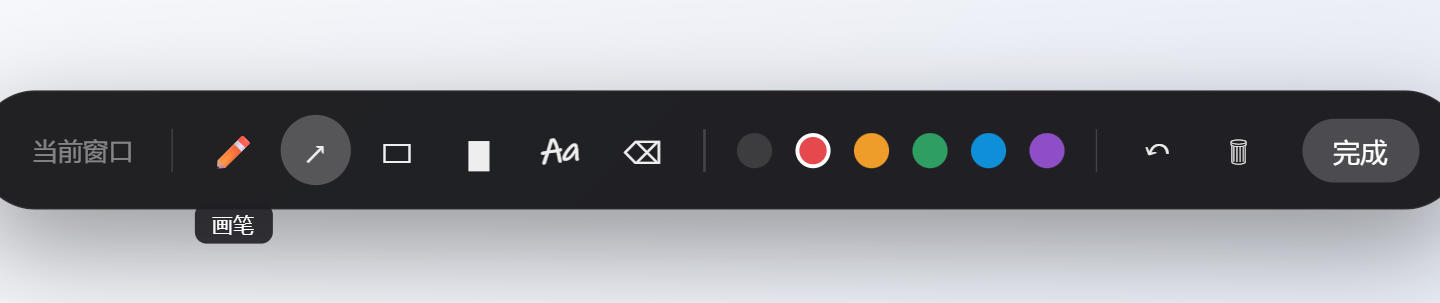
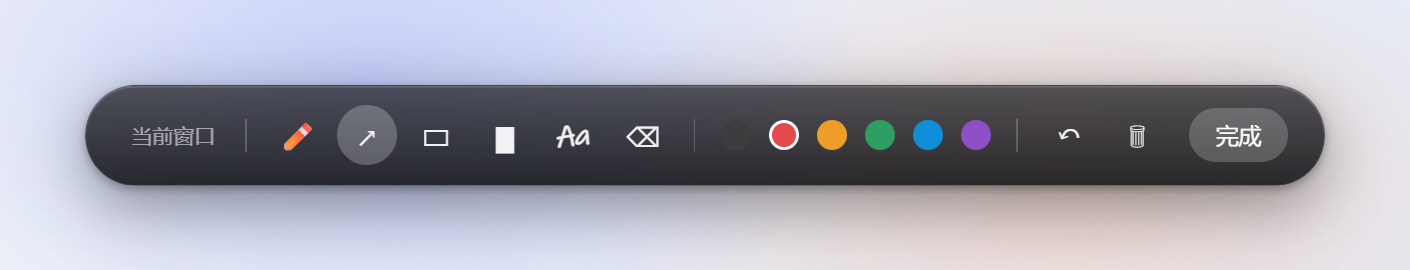
feat: 托盘菜单跟随系统主题 + 更小更紧凑;工具条胶囊弹出动画 + 玻璃质感;截图重做
- 托盘菜单:不再强制深色,改浅色默认 + 跟随系统深浅(prefers-color-scheme);整体更小、
  左侧对勾列收窄到 11px;磨砂玻璃(backdrop-filter)+ 顶部高光,质感更实。
- 工具条:进入标注时从小胶囊"弹开"成整条(Typeless 式登场——一直居中,max-width 逐帧变宽
  看起来就是从中间向两边展开);底改磨砂玻璃 + 顶部高光 + 分层阴影。
- README 截图重做:去掉托盘那张(又糊、构图又怪,且本就非必需);工具条改"缩窗贴合"导出,
  保证完整、居中、留白匀称;修好 hero 便签在特定渲染下被压成竖排的问题
  (gen-screenshots 去掉 force-device-scale-factor —— 它会压坏便签排版)。
- README(中 / 英)工具数量更正为六件(补"方框"),删掉托盘截图段。

diff --git a/docs/gen-screenshots.js b/docs/gen-screenshots.js
@@ -27,12 +27,20 @@ else if(it.type==='rect'){p.setAttribute('d',rectPath(it));p.setAttribute('strok
 
 const NOTE_CSS = `
 .note{position:absolute;font-family:'Ink Free','Segoe Print',cursive;font-size:20px;line-height:1.3;font-weight:600;white-space:pre-wrap;
+width:max-content;max-width:320px;
 text-shadow:0 1px 0 rgba(255,255,255,.6),0 -1px 0 rgba(255,255,255,.6),1px 0 0 rgba(255,255,255,.6),-1px 0 0 rgba(255,255,255,.6);}
 #canvas{position:absolute;inset:0;width:100%;height:100%;pointer-events:none}
 #notes{position:absolute;inset:0}
 `;
 
-// 模拟"浏览器窗口 + 一篇文章",再叠标注——展示"任意窗口都能标"。工具条=当前真实的六个工具(含方框 ▭)
+// 深色玻璃工具条(磨砂 + 顶部高光 + 分层阴影),和 overlay.css 里真实工具条同款质感
+const GLASS_BAR = `
+  background:linear-gradient(180deg,rgba(44,44,49,.80),rgba(20,20,23,.90));
+  -webkit-backdrop-filter:blur(18px) saturate(1.4);backdrop-filter:blur(18px) saturate(1.4);
+  border:1px solid rgba(255,255,255,.14);
+  box-shadow:0 14px 44px rgba(0,0,0,.4),0 2px 6px rgba(0,0,0,.28),inset 0 1px 0 rgba(255,255,255,.16);`;
+
+// 模拟"浏览器窗口 + 一篇文章",再叠标注——展示"任意窗口都能标"。工具条=当前真实六个工具(含方框 ▭)
 function heroHTML(withToolbar) {
   const toolbar = withToolbar ? `
   <div class="wa-toolbar">
@@ -59,11 +67,10 @@ function heroHTML(withToolbar) {
   ${NOTE_CSS}
   /* 工具条 */
   .wa-toolbar{position:absolute;top:16px;left:50%;transform:translateX(-50%);display:flex;align-items:center;gap:4px;
-    background:rgba(24,24,27,.94);border:1px solid rgba(255,255,255,.08);border-radius:999px;padding:6px 12px;
-    box-shadow:0 10px 30px rgba(0,0,0,.4);z-index:9}
-  .wa-toolbar .app{color:rgba(255,255,255,.45);font-size:12px;padding:0 4px}
-  .wa-toolbar .sep{width:1px;height:18px;background:rgba(255,255,255,.16);margin:0 5px}
-  .wa-toolbar button{border:none;background:transparent;color:#eee;width:32px;height:32px;border-radius:50%;font-size:15px;cursor:pointer}
+    border-radius:999px;padding:6px 12px;z-index:9;${GLASS_BAR}}
+  .wa-toolbar .app{color:rgba(255,255,255,.5);font-size:12px;padding:0 4px}
+  .wa-toolbar .sep{width:1px;height:18px;background:rgba(255,255,255,.18);margin:0 5px}
+  .wa-toolbar button{border:none;background:transparent;color:#f0f0f2;width:32px;height:32px;border-radius:50%;font-size:15px;cursor:pointer}
   .wa-toolbar button.on{background:rgba(255,255,255,.22)}
   .wa-toolbar button.ink{font-family:'Ink Free','Segoe Print',cursive;font-weight:700}
   .wa-toolbar i{width:16px;height:16px;border-radius:50%;display:inline-block;margin:0 2px;border:2px solid transparent}
@@ -104,27 +111,28 @@ function heroHTML(withToolbar) {
   </body></html>`;
 }
 
-// 工具条特写(柔和背景 + 放大的工具条),六个工具:画笔 / 箭头 / 方框 / 荧光笔 / 手写便签 / 橡皮
+// 工具条特写:居中、不缩放(靠 shootFit 紧裁,保证完整+居中),六个工具:画笔/箭头/方框/荧光笔/便签/橡皮
 function toolbarHTML() {
   return `<!DOCTYPE html><html><head><meta charset="utf-8"><style>
   *{margin:0;padding:0;box-sizing:border-box;font-family:'Segoe UI','Microsoft YaHei',system-ui,sans-serif}
-  body{width:960px;height:200px;background:linear-gradient(135deg,#f6f7fb,#e9edf5);display:flex;align-items:center;justify-content:center;overflow:hidden}
-  .bar{display:flex;align-items:center;gap:6px;background:rgba(24,24,27,.96);border:1px solid rgba(255,255,255,.08);
-    border-radius:999px;padding:12px 22px;box-shadow:0 18px 50px rgba(0,0,0,.4);transform:scale(1.3)}
-  .bar .app{color:rgba(255,255,255,.45);font-size:13px;padding:0 6px}
-  .bar .sep{width:1px;height:22px;background:rgba(255,255,255,.16);margin:0 7px}
-  .bar button{border:none;background:transparent;color:#eee;width:36px;height:36px;border-radius:50%;font-size:17px;cursor:pointer;position:relative}
-  .bar button.on{background:rgba(255,255,255,.24)}
-  .bar button.ink{font-family:'Ink Free','Segoe Print',cursive;font-weight:700}
-  .bar i{width:18px;height:18px;border-radius:50%;display:inline-block;margin:0 3px;border:2px solid transparent}
-  .bar i.on{border-color:#fff}
-  .bar b{margin-left:8px;padding:7px 16px;background:rgba(255,255,255,.2);border-radius:999px;color:#fff;font-size:14px;font-weight:500}
-  .tip{position:absolute;bottom:-30px;left:50%;transform:translateX(-50%);white-space:nowrap;font-size:11px;color:#fff;
-    background:rgba(30,30,34,.9);padding:3px 9px;border-radius:6px}
+  body{width:100vw;height:100vh;overflow:hidden;display:flex;align-items:center;justify-content:center;
+    background:
+      radial-gradient(560px 300px at 26% 32%, rgba(120,140,255,.34), transparent 60%),
+      radial-gradient(520px 280px at 76% 70%, rgba(255,168,120,.30), transparent 62%),
+      linear-gradient(135deg,#eef1f8,#e5ebf6)}
+  #shot{display:flex;align-items:center;gap:6px;border-radius:999px;padding:13px 24px;${GLASS_BAR}}
+  #shot .app{color:rgba(255,255,255,.55);font-size:14px;padding:0 6px}
+  #shot .sep{width:1px;height:22px;background:rgba(255,255,255,.20);margin:0 8px}
+  #shot button{border:none;background:transparent;color:#f2f2f4;width:40px;height:40px;border-radius:50%;font-size:19px;cursor:pointer}
+  #shot button.on{background:rgba(255,255,255,.24)}
+  #shot button.ink{font-family:'Ink Free','Segoe Print',cursive;font-weight:700}
+  #shot i{width:20px;height:20px;border-radius:50%;display:inline-block;margin:0 3px;border:2px solid transparent}
+  #shot i.on{border-color:#fff}
+  #shot b{margin-left:8px;padding:8px 18px;background:rgba(255,255,255,.20);border-radius:999px;color:#fff;font-size:15px;font-weight:500}
   </style></head><body>
-    <div class="bar">
+    <div id="shot">
       <span class="app">当前窗口</span><span class="sep"></span>
-      <button title="画笔">✏<span class="tip">画笔</span></button>
+      <button title="画笔">✏</button>
       <button class="on" title="箭头">↗</button>
       <button title="方框">▭</button>
       <button title="荧光笔">▆</button>
@@ -138,51 +146,32 @@ function toolbarHTML() {
   </body></html>`;
 }
 
-// 托盘右键菜单 mock —— 现在是自绘的深色玻璃菜单(和工具条同语言),开机自启 / 跟随页面滚动 两个勾选项
-function trayHTML() {
-  return `<!DOCTYPE html><html><head><meta charset="utf-8"><style>
-  *{margin:0;padding:0;box-sizing:border-box;font-family:'Segoe UI','Microsoft YaHei',system-ui,sans-serif}
-  body{width:520px;height:400px;background:linear-gradient(135deg,#eef1f6,#dfe4ee);position:relative}
-  .taskbar{position:absolute;bottom:0;left:0;right:0;height:48px;background:rgba(243,244,246,.96);border-top:1px solid #e2e5ea;display:flex;align-items:center;justify-content:flex-end;padding-right:18px;gap:16px;color:#4b5563;font-size:13px}
-  .trayicon{width:26px;height:26px;border-radius:50%;background:#e5484d;color:#fff;display:flex;align-items:center;justify-content:center;font-size:14px;box-shadow:0 0 0 3px rgba(229,72,77,.18)}
-  .menu{position:absolute;right:22px;bottom:60px;display:flex;flex-direction:column;min-width:210px;
-    background:rgba(30,30,33,.97);border:1px solid rgba(255,255,255,.09);border-radius:11px;padding:6px;
-    box-shadow:0 14px 44px rgba(0,0,0,.5),0 2px 8px rgba(0,0,0,.3);color:rgba(255,255,255,.92);font-size:13px}
-  .row{display:flex;align-items:center;gap:8px;height:32px;padding:0 14px 0 8px;border-radius:7px;white-space:nowrap}
-  .row .ck{flex:0 0 15px;width:15px;text-align:center;color:#6bd39a;font-size:12px;opacity:0}
-  .row.on .ck{opacity:1}
-  .row .tx{flex:1}
-  .row .sc{margin-left:20px;color:rgba(255,255,255,.4);font-size:11.5px}
-  .row.info{height:27px;color:rgba(255,255,255,.45)}
-  .row.info .tx{font-size:12px}
-  .row.hover{background:rgba(255,255,255,.11)}
-  .sep{height:1px;background:rgba(255,255,255,.09);margin:5px 8px}
-  </style></head><body>
-    <div class="menu">
-      <div class="row info"><span class="ck"></span><span class="tx">标注当前窗口</span><span class="sc">Ctrl+Alt+A</span></div>
-      <div class="row info"><span class="ck"></span><span class="tx">退出程序</span><span class="sc">Ctrl+Alt+Q</span></div>
-      <div class="sep"></div>
-      <div class="row on"><span class="ck">✓</span><span class="tx">开机自动启动</span></div>
-      <div class="row on hover"><span class="ck">✓</span><span class="tx">跟随页面滚动</span></div>
-      <div class="sep"></div>
-      <div class="row"><span class="ck"></span><span class="tx">打开标注存档文件夹</span></div>
-      <div class="row"><span class="ck"></span><span class="tx">退出</span></div>
-    </div>
-    <div class="taskbar"><div class="trayicon">✎</div><span>16:42</span></div>
-  </body></html>`;
-}
-
+// 整窗截图(hero):按窗口大小整张抓
 async function shoot(win, html, file) {
   await win.loadURL('data:text/html;charset=utf-8,' + encodeURIComponent(html));
-  await sleep(700);
+  await sleep(750);
   const img = await win.webContents.capturePage();
   fs.writeFileSync(path.join(OUT, file), img.toPNG());
   console.log('saved', file);
 }
 
+// 元素特写:量出 #shot 尺寸,把窗口缩到"主体 + 四周等距留白"再整张抓 ——
+// 用缩窗口(而不是裁剪)保证主体完整、居中、周围留白匀称,绝不会切到边
+async function shootFit(win, html, file, pad = 56) {
+  await win.loadURL('data:text/html;charset=utf-8,' + encodeURIComponent(html));
+  await sleep(750);
+  const r = await win.webContents.executeJavaScript(
+    `(()=>{const b=document.getElementById('shot').getBoundingClientRect();return{w:Math.ceil(b.width),h:Math.ceil(b.height)};})()`);
+  win.setContentSize(r.w + pad * 2, r.h + pad * 2);   // 窗口缩到贴合主体;body flex 居中 -> 四周 pad 均匀
+  await sleep(220);
+  const img = await win.webContents.capturePage();
+  fs.writeFileSync(path.join(OUT, file), img.toPNG());
+  console.log('saved', file, 'shot', JSON.stringify(r));
+}
+
 app.whenReady().then(async () => {
   const mk = (w, h) => new BrowserWindow({
-    width: w, height: h, show: false, frame: false, useContentSize: true,
+    width: w, height: h, show: false, frame: false, useContentSize: true, transparent: true,
     webPreferences: { nodeIntegration: true, contextIsolation: false },
   });
 
@@ -190,13 +179,9 @@ app.whenReady().then(async () => {
   await shoot(hero, heroHTML(true), 'hero.png');
   hero.close();
 
-  const bar = mk(960, 200);
-  await shoot(bar, toolbarHTML(), 'toolbar.png');
+  const bar = mk(1360, 360);
+  await shootFit(bar, toolbarHTML(), 'toolbar.png');
   bar.close();
-
-  const tray = mk(520, 400);
-  await shoot(tray, trayHTML(), 'tray.png');
-  tray.close();
 
   console.log('DONE');
   app.exit(0);

diff --git a/tray-menu/menu.html b/tray-menu/menu.html
@@ -8,37 +8,54 @@
     font-family: 'Segoe UI', 'Microsoft YaHei', system-ui, sans-serif; }
   body { padding: 18px; }                 /* 窗口透明,四周留出阴影空间(与 tray-pos 的 pad 对齐) */
 
-  /* 卡片:和工具条/状态牌同一套"深色玻璃"语言,让菜单看着就是这个产品的一部分 */
+  /* 卡片:磨砂玻璃,浅色为默认、深色跟随系统(见底部 @media)。比上一版更小、左列更窄 */
   .menu {
     display: flex; flex-direction: column;
-    width: max-content; min-width: 208px;
-    background: rgba(30, 30, 33, .97);
-    border: 1px solid rgba(255, 255, 255, .09);
-    border-radius: 11px; padding: 6px;
-    box-shadow: 0 14px 44px rgba(0, 0, 0, .5), 0 2px 8px rgba(0, 0, 0, .3);
-    color: rgba(255, 255, 255, .92); font-size: 13px;
+    width: max-content; min-width: 174px;
+    background: rgba(250, 250, 251, .80);
+    -webkit-backdrop-filter: blur(26px) saturate(1.7);
+    backdrop-filter: blur(26px) saturate(1.7);
+    border: 1px solid rgba(0, 0, 0, .07);
+    border-radius: 10px; padding: 5px;
+    box-shadow: 0 10px 32px rgba(0, 0, 0, .18), 0 1px 2px rgba(0, 0, 0, .10),
+                inset 0 1px 0 rgba(255, 255, 255, .8);
+    color: #1e1e21; font-size: 12.5px;
   }
 
-  .row { display: flex; align-items: center; gap: 8px;
-    height: 32px; padding: 0 14px 0 8px; border-radius: 7px;
+  .row { display: flex; align-items: center; gap: 7px;
+    height: 28px; padding: 0 12px 0 7px; border-radius: 6px;
     white-space: nowrap; cursor: default; }
   .row[data-action] { cursor: pointer; }
-  .row[data-action]:hover { background: rgba(255, 255, 255, .11); }
+  .row[data-action]:hover { background: rgba(0, 0, 0, .055); }
 
-  /* 左列只留一个窄窄的对勾位(~15px),而不是系统菜单那条又宽又空的勾选栏 */
-  .row .ck { flex: 0 0 15px; width: 15px; text-align: center;
-    color: #6bd39a; font-size: 12px; opacity: 0; }
+  /* 左列:只留一个 11px 的对勾位,尽量收窄 */
+  .row .ck { flex: 0 0 11px; width: 11px; text-align: center;
+    color: #12a150; font-size: 11px; opacity: 0; }
   .row.on .ck { opacity: 1; }
   .row .tx { flex: 1; }
-  .row .sc { margin-left: 20px; color: rgba(255, 255, 255, .4);
-    font-size: 11.5px; letter-spacing: .2px; }
+  .row .sc { margin-left: 16px; color: rgba(0, 0, 0, .4); font-size: 11px; letter-spacing: .2px; }
 
-  .row.info { height: 27px; color: rgba(255, 255, 255, .45); }
-  .row.info .tx { font-size: 12px; }
+  .row.info { height: 24px; color: rgba(0, 0, 0, .42); }
+  .row.info .tx { font-size: 11.5px; }
 
-  .sep { height: 1px; background: rgba(255, 255, 255, .09); margin: 5px 8px; }
+  .sep { height: 1px; background: rgba(0, 0, 0, .08); margin: 4px 7px; }
 
-  .row.quit:hover { background: rgba(229, 72, 77, .9); color: #fff; }  /* 退出=危险动作,悬停变红 */
+  .row.quit:hover { background: rgba(229, 72, 77, .92); color: #fff; }  /* 退出=危险动作,悬停变红 */
+
+  /* 深色:跟随系统主题(系统切到深色时整套换深) */
+  @media (prefers-color-scheme: dark) {
+    .menu {
+      background: rgba(32, 32, 35, .72);
+      border-color: rgba(255, 255, 255, .09);
+      box-shadow: 0 12px 40px rgba(0, 0, 0, .5), inset 0 1px 0 rgba(255, 255, 255, .08);
+      color: rgba(255, 255, 255, .92);
+    }
+    .row[data-action]:hover { background: rgba(255, 255, 255, .10); }
+    .row .ck { color: #6bd39a; }
+    .row .sc { color: rgba(255, 255, 255, .4); }
+    .row.info { color: rgba(255, 255, 255, .45); }
+    .sep { background: rgba(255, 255, 255, .09); }
+  }
 </style>
 </head>
 <body>

diff --git a/test/shoot-menu.js b/test/shoot-menu.js
@@ -1,7 +1,7 @@
-// 抓一张"真实"自绘托盘菜单(加载 tray-menu/menu.html,喂一份状态,量尺寸 + 截图),
-// 用来肉眼核对比例/左列间隙/对勾,并验证自适应量尺寸这条链路。用法: electron test/shoot-menu.js
+// 抓两张"真实"自绘托盘菜单(加载 tray-menu/menu.html,喂状态,量尺寸 + 截图),浅色/深色各一张,
+// 核对比例 / 左列间隙 / 对勾 / 主题跟随,并验证自适应量尺寸这条链路。用法: electron test/shoot-menu.js
 'use strict';
-const { app, BrowserWindow, ipcMain } = require('electron');
+const { app, BrowserWindow, ipcMain, nativeTheme } = require('electron');
 const path = require('path');
 const fs = require('fs');
 
@@ -10,7 +10,7 @@ const sleep = (ms) => new Promise((r) => setTimeout(r, ms));
 
 app.whenReady().then(async () => {
   const w = new BrowserWindow({
-    width: 360, height: 400, show: false, frame: false, transparent: true,
+    width: 320, height: 400, show: false, frame: false, transparent: true,
     hasShadow: false, webPreferences: { nodeIntegration: true, contextIsolation: false },
   });
   await w.loadFile(path.join(__dirname, '..', 'tray-menu', 'menu.html'));
@@ -18,21 +18,23 @@ app.whenReady().then(async () => {
   let sized = null;
   ipcMain.on('menu-size', (e, size) => { sized = size; });
 
-  // 模拟主进程在右键时发来的状态:开机自启=开、跟随=关(好核对对勾的有/无)
+  // 模拟主进程在右键时发来的状态:开机自启=开、跟随=关(好核对对勾的有 / 无)
   w.webContents.send('menu-state', {
     autostart: true, follow: false, annotateKey: 'Ctrl+Alt+A', quitKey: 'Ctrl+Alt+Q',
   });
-
   for (let i = 0; i < 40 && !sized; i++) await sleep(50); // 等 renderer 量完回报
   console.log('menu-size =', JSON.stringify(sized));
-  await sleep(200);
 
-  const img = await w.webContents.capturePage();
-  const out = path.join(OUT, 'menu-real.png');
-  fs.writeFileSync(out, img.toPNG());
-  console.log('saved', out);
+  for (const theme of ['light', 'dark']) {
+    nativeTheme.themeSource = theme;          // 强制主题,验证 prefers-color-scheme 跟随
+    await sleep(250);
+    const img = await w.webContents.capturePage();
+    const out = path.join(OUT, 'menu-' + theme + '.png');
+    fs.writeFileSync(out, img.toPNG());
+    console.log('saved', out);
+  }
 
-  const ok = sized && sized.cardW > 150 && sized.cardW < 340 && sized.cardH > 150 && sized.cardH < 340;
+  const ok = sized && sized.cardW > 140 && sized.cardW < 300 && sized.cardH > 140 && sized.cardH < 300;
   console.log(ok ? 'SIZE OK' : 'SIZE SUSPECT');
   app.exit(ok ? 0 : 1);
 });

diff --git a/overlay/overlay.css b/overlay/overlay.css
@@ -69,20 +69,24 @@ body.draw #chip { display: none; }
 body.draw #bind-badge { display: none; }       /* 画笔模式不谈跟随,不显示 */
 @media (prefers-reduced-motion: reduce) { #bind-badge { transition: opacity .28s ease; } }
 
-/* 工具条 */
+/* 工具条:深色玻璃胶囊(磨砂 + 顶部高光 + 分层阴影,比原来单色底更有质感) */
 #toolbar {
   position: fixed; top: 10px; left: 50%; transform: translateX(-50%);
-  display: none; align-items: center; gap: 3px;
-  background: rgba(24,24,27,.92); border: 1px solid rgba(255,255,255,.08);
+  display: none; align-items: center; gap: 3px; overflow: hidden;
+  background: linear-gradient(180deg, rgba(44,44,49,.80), rgba(20,20,23,.90));
+  border: 1px solid rgba(255,255,255,.12);
   border-radius: 999px; padding: 5px 10px;
-  box-shadow: 0 6px 24px rgba(0,0,0,.35);
+  -webkit-backdrop-filter: blur(16px) saturate(1.4); backdrop-filter: blur(16px) saturate(1.4);
+  box-shadow: 0 8px 28px rgba(0,0,0,.4), 0 1px 2px rgba(0,0,0,.28), inset 0 1px 0 rgba(255,255,255,.14);
   font-family: 'Segoe UI', system-ui, sans-serif;
 }
-/* 进入标注模式时,工具条轻轻落下(淡入+下滑+微放大),参考 Typeless 的柔和登场 */
-body.draw #toolbar { display: flex; animation: toolbar-in .24s cubic-bezier(.16,1,.3,1); }
-@keyframes toolbar-in {
-  from { opacity: 0; transform: translateX(-50%) translateY(-8px) scale(.97); }
-  to   { opacity: 1; transform: translateX(-50%) translateY(0)    scale(1); }
+/* 进入标注模式:从一个小胶囊"弹开"成整条 —— 因为整条一直 translateX(-50%) 居中,
+   max-width 逐帧变宽时会被重新居中,看起来就是从中间向两边"啵"地展开(Typeless 那种登场) */
+body.draw #toolbar { display: flex; animation: toolbar-pop .36s cubic-bezier(.16,1,.3,1); }
+@keyframes toolbar-pop {
+  0%   { opacity: 0; max-width: 42px;  transform: translateX(-50%) translateY(-6px) scale(.96); }
+  55%  { opacity: 1; }
+  100% { opacity: 1; max-width: 760px; transform: translateX(-50%) translateY(0)    scale(1); }
 }
 #app-name { color: rgba(255,255,255,.45); font-size: 12px; padding: 0 4px; max-width: 120px;
   overflow: hidden; text-overflow: ellipsis; white-space: nowrap; }

diff --git a/README.en.md b/README.en.md
@@ -41,7 +41,7 @@ draw on it. All code is an independent implementation.
 | 🪟 **On any window** | Browser, PDF, chat, editor… if it's a window, you can mark it up |
 | 🎯 **Marks follow the window** | Move or resize the window and annotations track it in real time — not a frozen screenshot |
 | 📜 **Follows page scrolling** | Scroll and marks track the real scroll position — main content and sidebar each followed on their own; apps that don't expose scrolling fall back to pinning (see [FAQ](#-faq)) |
-| ✏ **Five hand-drawn tools** | Pen, hand-drawn arrow, highlighter, handwritten note, eraser — six colors |
+| ✏ **Six drawing tools** | Pen, hand-drawn arrow, box, highlighter, handwritten note, eraser — six colors |
 | 💾 **Remembers automatically** | Saved per "app + window title"; close and reopen the window, the marks come back |
 | 🫥 **Stays out of your way** | One tap and the overlay becomes click-through — keep using the window underneath |
 | 🔔 **Lives in the tray** | A red ✎ icon; auto-start and the follow toggle are in the right-click menu |
@@ -49,13 +49,9 @@ draw on it. All code is an independent implementation.
 
 ## Screenshots
 
-**The toolbar in annotate mode** (pen / arrow / highlighter / note / eraser + six colors):
+**The toolbar in annotate mode** (pen / arrow / box / highlighter / note / eraser + six colors):
 
-<img src="docs/toolbar.png" alt="Floating toolbar" width="640">
-
-**The tray right-click menu** (auto-start and the follow toggle live here):
-
-<img src="docs/tray.png" alt="Tray menu" width="380">
+<img src="docs/toolbar.png" alt="Floating toolbar" width="680">
 
 ## 📦 Install
 

diff --git a/README.md b/README.md
@@ -38,7 +38,7 @@
 | 🪟 **贴在任意窗口** | 浏览器、PDF、聊天窗、编辑器……只要是个窗口就能标 |
 | 🎯 **标注跟着窗口走** | 窗口移动、缩放，标注实时跟随；不是死在屏幕上的截图 |
 | 📜 **跟着页面滚动** | 滚页面时标注按真实位置跟随，正文 / 侧栏还能各跟各的；读不到滚动的软件则钉在窗口上（见[常见问题](#-常见问题)）|
-| ✏ **五种手绘工具** | 画笔、手绘箭头、荧光笔、手写便签、橡皮，六种颜色 |
+| ✏ **六件手绘工具** | 画笔、手绘箭头、方框、荧光笔、手写便签、橡皮，六种颜色 |
 | 💾 **自动记住** | 按"程序 + 窗口标题"存档，窗口关了再开，标注自动回来 |
 | 🫥 **不挡你干活** | 画完按一下，鼠标穿透浮层，照常点击操作下面的窗口 |
 | 🔔 **托盘常驻** | 右下角一个红色 ✎ 图标，开机自启、跟随开关都在右键菜单里 |
@@ -46,13 +46,9 @@
 
 ## 效果
 
-**标注模式的工具条**（画笔 / 箭头 / 荧光笔 / 手写便签 / 橡皮 + 六色）：
+**标注模式的工具条**（画笔 / 箭头 / 方框 / 荧光笔 / 手写便签 / 橡皮 + 六色）：
 
-<img src="docs/toolbar.png" alt="浮动工具条" width="640">
-
-**托盘右键菜单**（开机自启、跟随开关都在这）：
-
-<img src="docs/tray.png" alt="托盘菜单" width="380">
+<img src="docs/toolbar.png" alt="浮动工具条" width="680">
 
 ## 📦 下载安装
 
